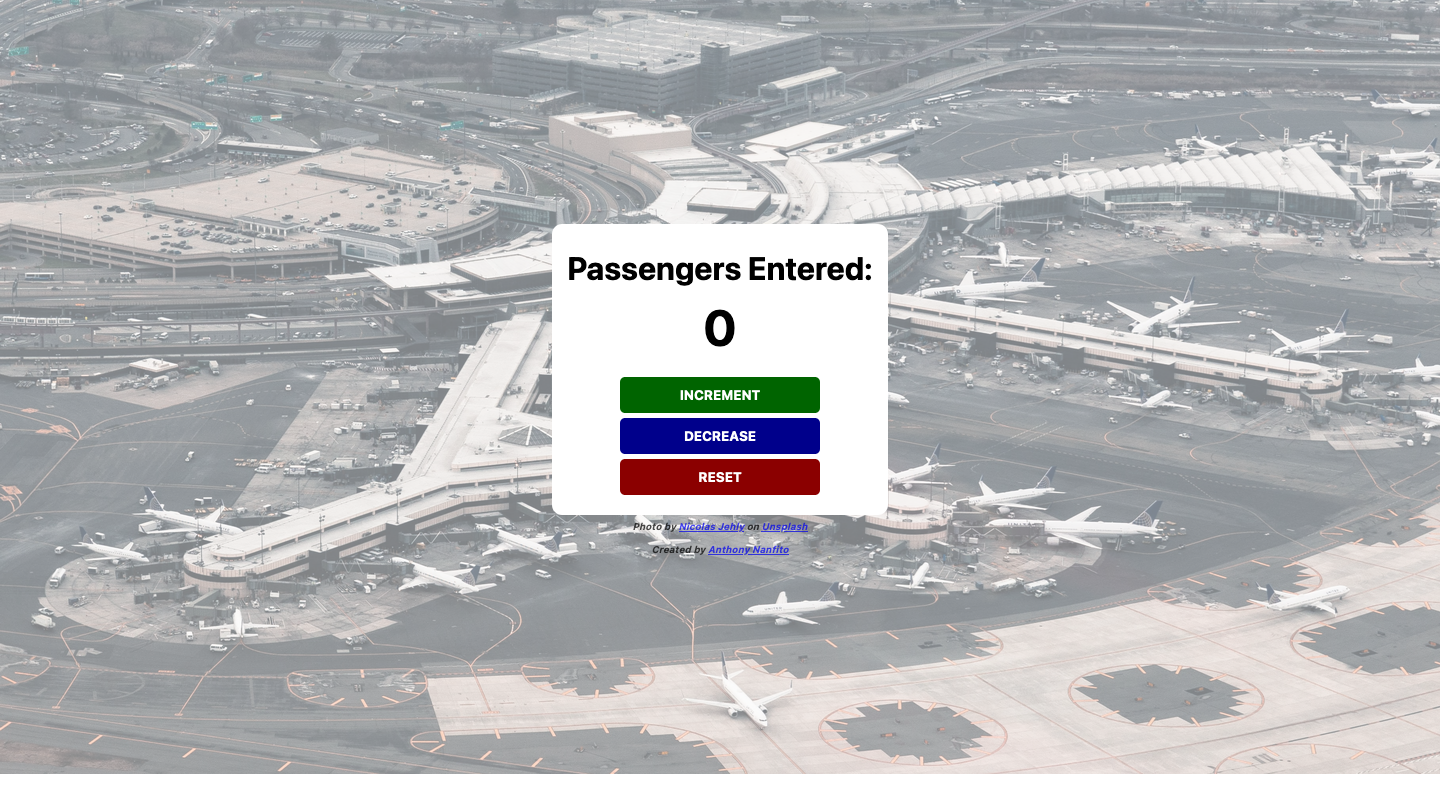
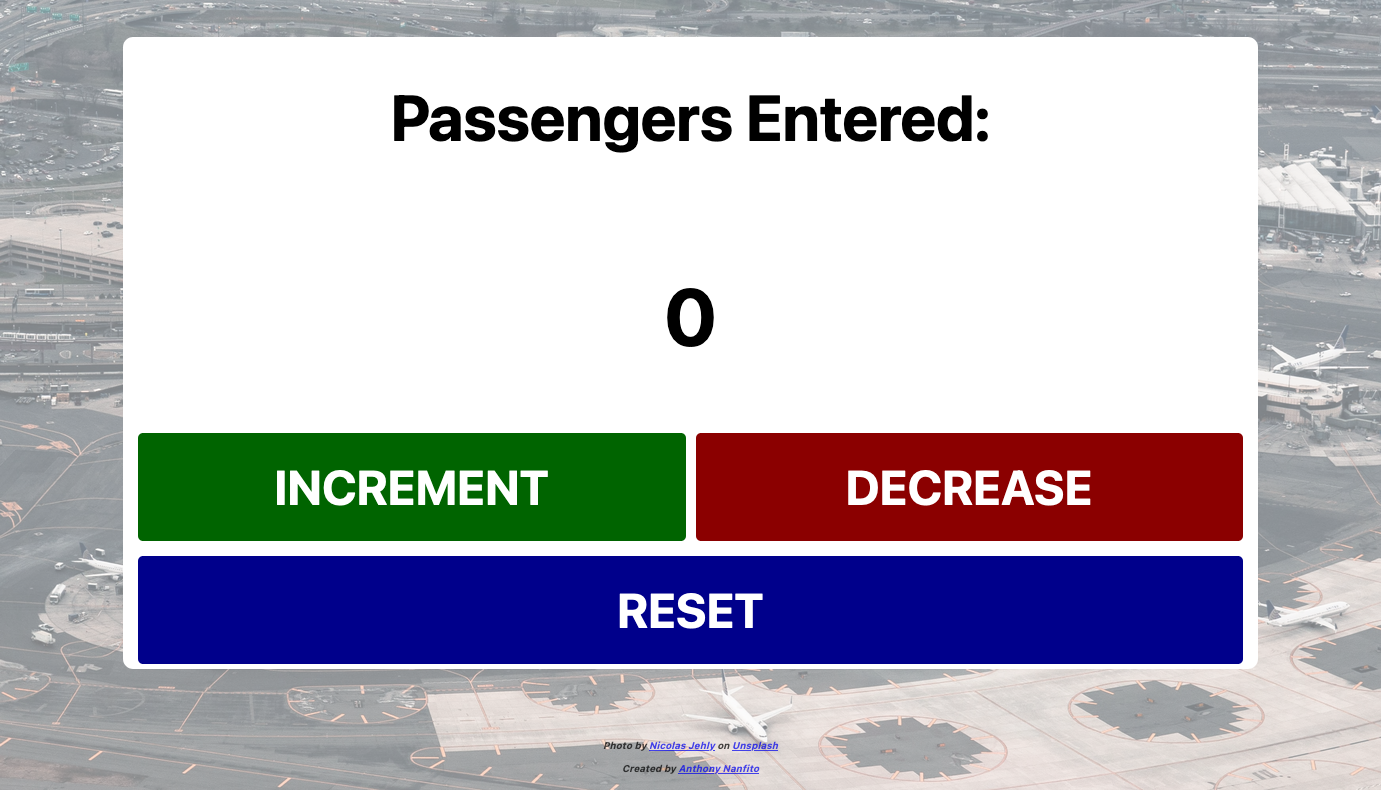
update for mobile design & new screenshots
update index and stylesheets with new mobile-friendly design
upload new screenshots of desktop and mobile versions

diff --git a/index.css b/index.css
@@ -24,6 +24,7 @@ body {
 
 .container {
   display: grid;
+  grid-gap: 10px;
   background-color: white;
   border-radius: 10px;
   margin: 15px;
@@ -33,15 +34,15 @@ body {
 
 }
 
-
-h1 {
-    margin-top: 10px;
-    margin-bottom: 10px;
+#count-el {
+  font-size: 5rem;
 }
 
-h2 {
-    margin-top: 0;
-    margin-bottom: 20px;
+.buttons {
+  display: grid;
+  grid-gap: 10px;
+  grid-template-columns: 1fr 1fr;
+  grid-template-rows: 1fr 1fr;
 }
 
 button {
@@ -54,18 +55,26 @@ button {
     width: 100%;
     margin-bottom: 5px;
     border-radius: 5px;
+    cursor: pointer;
 }
 
 #increment-btn {
     background: darkgreen;
+    grid-column-start: 1;
+    grid-row-start: 1;
 }
 
 #decrease-btn {
-    background: darkblue;
+    background: darkred;
+    grid-column-start: 2;
+    grid-row-start: 1;
 }
 
 #reset-btn {
-    background: darkred;
+    background: darkblue;
+    grid-column-start: 1;
+    grid-column-end: 3;
+    grid-row-start: 2;
 }
 
 footer {

diff --git a/index.html b/index.html
@@ -9,12 +9,16 @@
     <main>
       <div class="container">
         <h1>Passengers Entered:</h1>
-        <h2 id="count-el">0</h2>
+        <div id="count-el">0</div>
+        <div class="buttons">
           <button id="increment-btn" onclick="increment()">INCREMENT</button>
 
           <button id="decrease-btn" onclick="decrease()">DECREASE</button>
 
           <button id="reset-btn" onclick="reset()">RESET</button>
+
+        </div>
+
 
           <script src="index.js"></script>
 
